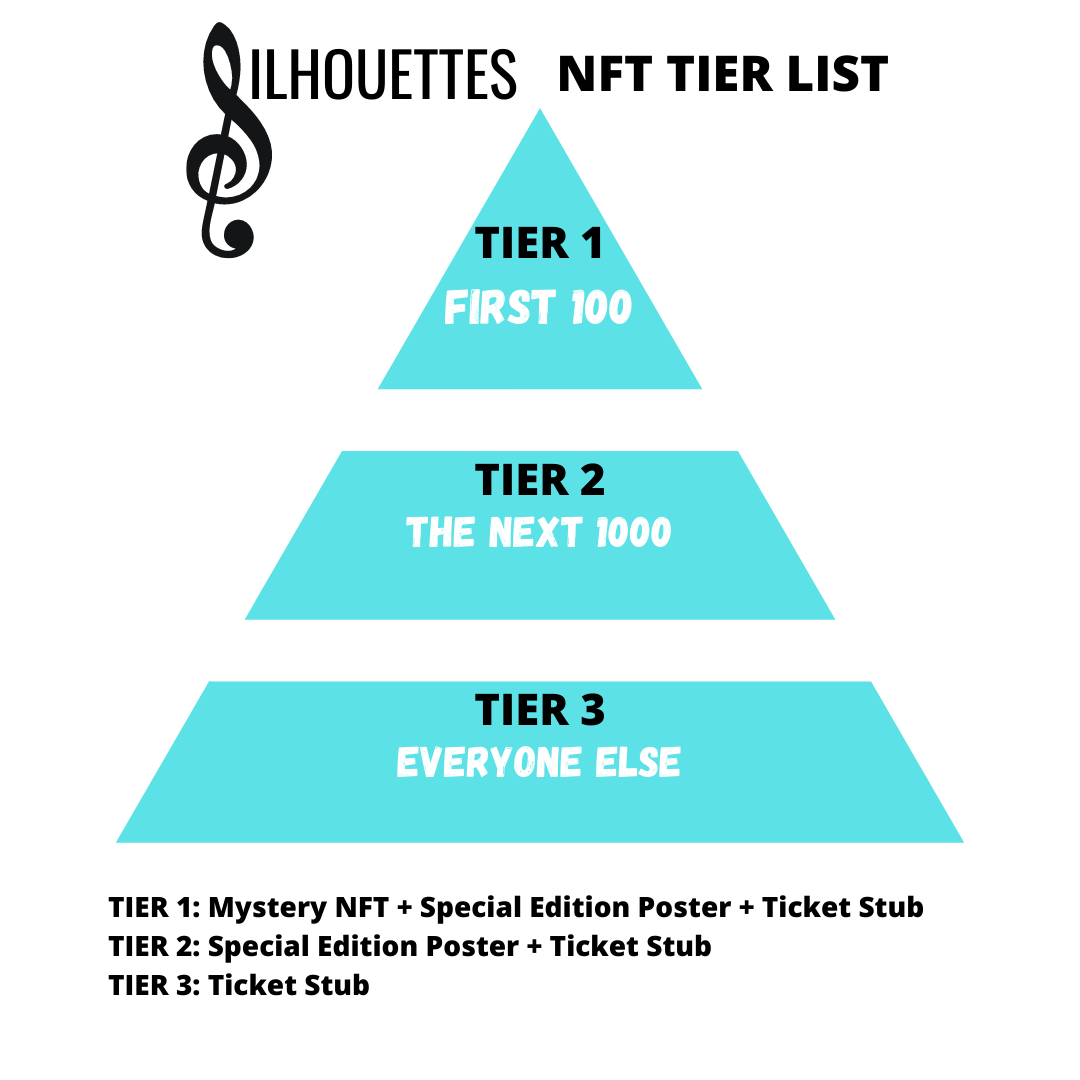
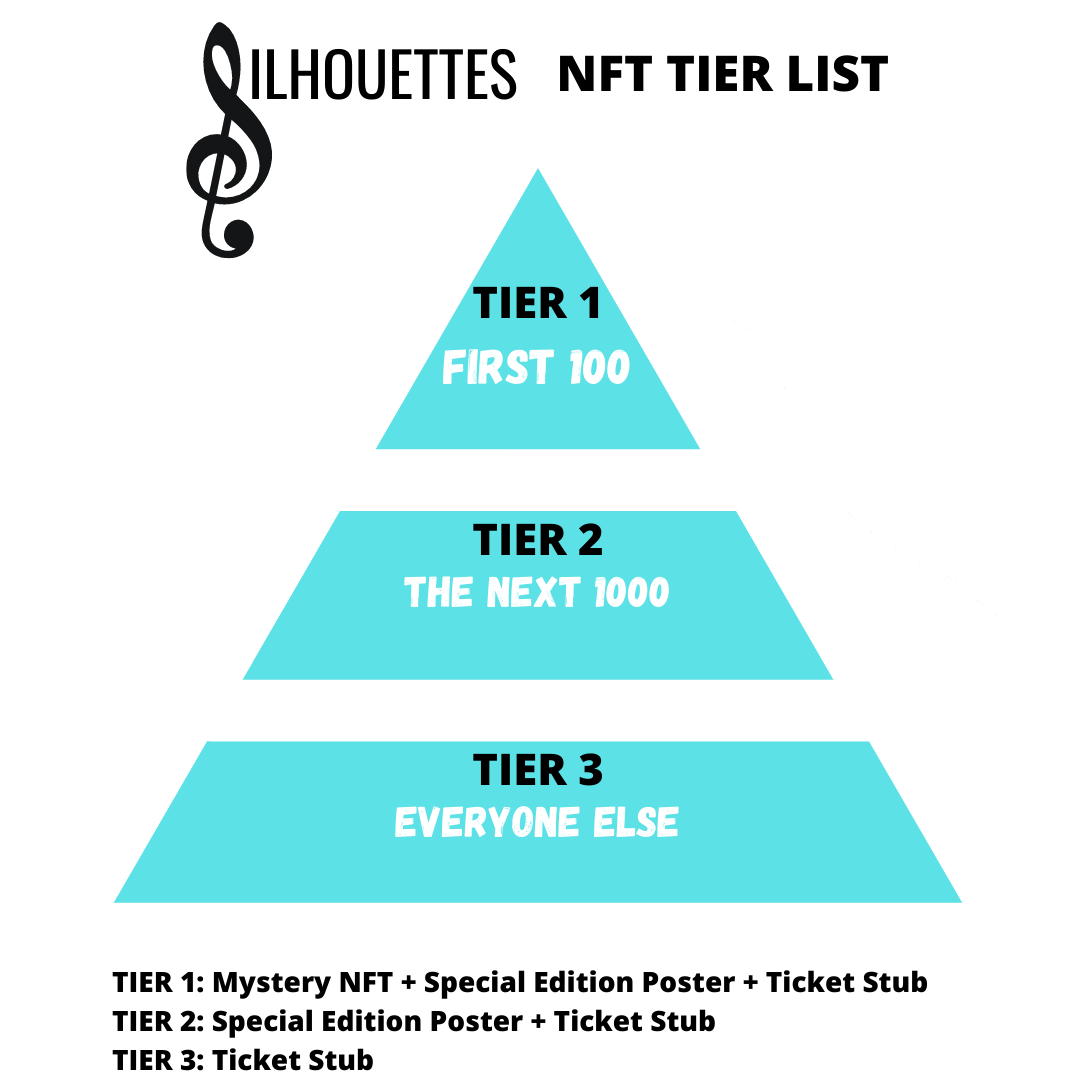
trailer fallback

Changed region(s): [[0.0917, 0.0917, 0.8861, 1.0]]

diff --git a/src/routes/__layout.svelte b/src/routes/__layout.svelte
@@ -39,6 +39,7 @@
 	let trailer = () => {
 		let { p2pml } = window;
 
+		let retries = 0;
 		if (p2pml && p2pml.hlsjs.Engine.isSupported()) {
 			var engine = new p2pml.hlsjs.Engine();
 
@@ -64,7 +65,20 @@
 
 			p2pml.hlsjs.initClapprPlayer($player);
 		} else {
-			setTimeout(loadVideo, 200);
+			retries++;
+
+			if (retries > 5) {
+				$player = document.createElement('video');
+				videoPlayer.append($player);
+				$player.setAttribute('type', 'application/vnd.apple.mpegurl');
+				$player.setAttribute('width', '100%');
+				$player.setAttribute('height', '100%');
+				$player.src = '/trailer/playlist.m3u8';
+				$player.load();
+				$player.play();
+			} else {
+				setTimeout(loadVideo, 100 * retries);
+			}
 		}
 	};
 
@@ -84,8 +98,8 @@
 		setTimeout(() => fade('video-overlay'), 10000);
 		setupScrollFade();
 		await getToken();
-    setInterval(getToken, 60000);
-    trailer();
+		setInterval(getToken, 60000);
+		trailer();
 		socket();
 		setup();
 		if (!$session.user) {
@@ -195,15 +209,17 @@
 					{/if}
 
 					{#if $session.user.email}
-            <div class="container mb">
-              Signed in as {$session.user.email}
-            </div>
+            <div class="page-block">
+						<div class="container mb">
+							Signed in as {$session.user.email}
+						</div>
 
-            {#if $page.path !== '/watch'}
-              <div class="container mb">
-                <button on:click={() => go('/watch')}>View Account</button>
-              </div>
-            {/if}
+						{#if $page.path !== '/watch'}
+							<div class="container mb">
+								<button on:click={() => go('/watch')}>View Account</button>
+							</div>
+						{/if}
+          </div>
 					{/if}
 
 					<slot />

diff --git a/src/routes/watch.svelte b/src/routes/watch.svelte
@@ -147,35 +147,37 @@
 	<Deposit />
 {/if}
 
-{#each goodies as goodie (goodie.asset)}
-	<div class="container column goodie" key={goodie.asset}>
-		<h3 class="nft-item">{nfts[goodie.type].name}</h3>
-		<div style="position: relative" class="goodie-video mb">
-			<div id="sound-toggle" style="cursor: pointer">
-				{#if muted}
-					<VolumeIconMute />
-				{:else}
-					<VolumeIconUp />
-				{/if}
+<div class="page-block">
+	{#each goodies as goodie (goodie.asset)}
+		<div class="container column goodie" key={goodie.asset}>
+			<h3 class="nft-item">{nfts[goodie.type].name}</h3>
+			<div style="position: relative" class="goodie-video mb">
+				<div id="sound-toggle" style="cursor: pointer">
+					{#if muted}
+						<VolumeIconMute />
+					{:else}
+						<VolumeIconUp />
+					{/if}
+				</div>
+				<video
+					style="display: block; width: 100%"
+					muted
+					playsinline
+					autoplay
+					loop
+					type="video/mp4"
+					on:click={toggle}
+					key={goodie.asset}
+				>
+					<source src={`/static/${nfts[goodie.type].filename}.mp4`} type="video/mp4" />
+					Your browser does not support HTML5 video.
+				</video>
 			</div>
-			<video
-				style="display: block; width: 100%"
-				muted
-				playsinline
-				autoplay
-				loop
-				type="video/mp4"
-				on:click={toggle}
-				key={goodie.asset}
-			>
-				<source src={`/static/${nfts[goodie.type].filename}.mp4`} type="video/mp4" />
-				Your browser does not support HTML5 video.
-			</video>
-		</div>
 
-		<Withdraw {goodie} bind:goodies />
-	</div>
-{/each}
+			<Withdraw {goodie} bind:goodies />
+		</div>
+	{/each}
+</div>
 
 <style>
 	.goodie {

diff --git a/src/components/contact.svelte b/src/components/contact.svelte
@@ -24,7 +24,7 @@
 
 <div id="lets-chat" class="container column page-block">
 	<div class="container">
-		<form on:submit|preventDefault={submit}>
+		<form on:submit|preventDefault={submit} class="mb">
 			{#if done}
 				<h1 class="container mb">Thank you!</h1>
 				<p class="container">We'll be in touch soon</p>
@@ -36,7 +36,7 @@
 				</div>
 			{:else}
 				<div class="container">
-					<h2>Let's chat</h2>
+					<h2 style="margin-top: 1em">Let's chat</h2>
 				</div>
 				<div class="form-field">
 					<div>

diff --git a/src/routes/login.svelte b/src/routes/login.svelte
@@ -29,7 +29,7 @@
 		<Fields bind:email bind:password />
 		<div class="container form-submit-controls">
 			<div class="container column">
-				<button class="mb" type="submit">Sign in</button>
+				<button type="submit">Sign in</button>
         <p class="container">Or</p>
         <a href="/register"><button class="mb">Register</button></a>
 			</div>

diff --git a/src/routes/invoice.svelte b/src/routes/invoice.svelte
@@ -79,7 +79,7 @@
 			<img
 				src="/static/tiers.png"
 				alt="Silhouette Tiers"
-				style="max-width: 30em; width: 100%; margin: 0 auto;"
+				style="max-width: 30em; width: 100%; margin: 0 auto 1em auto;"
 			/>
 			<div class="container mb">
 				<button on:click={() => (showInfo = !showInfo)}>Got it!</button>
